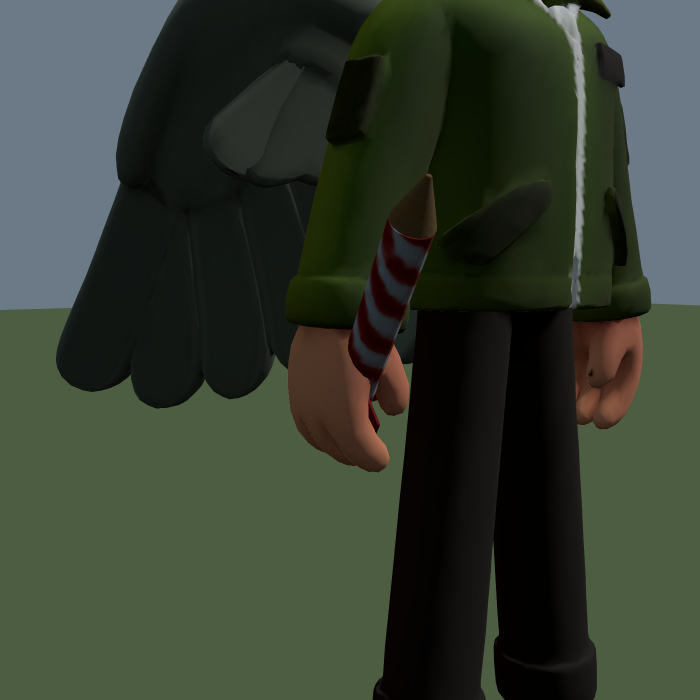
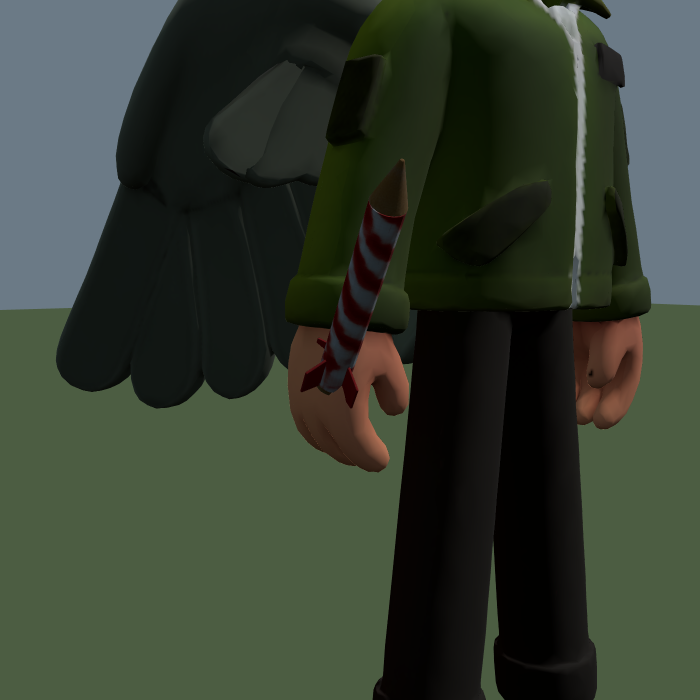
Stop the firework coming out through the palm
This fist is a closed lump of mesh with no hole in it. The built rocket hangs a
little of its tube and a guide stick below the grip, which is right for a hand
modelled open, and in a solid fist it means the tail comes out through the
palm - which is what "it goes through his hand" was.

Two changes: the scanned firework's foot sits at the grip rather than three
centimetres below it, so nothing extends past the fingers; and the grip moves
half a fist's width out, so the tube rests against the outside of the fingers
where a hand that cannot open has to hold something. Filling the hand goes back
to 1.0 - at 1.3 it was thicker than the forearm.

Claude-Session: https://claude.ai/code/session_01AbPj1ecgWZX5NRERgq23EA

Changed region(s): [[0.42, 0.24, 0.63, 0.63]]

diff --git a/src/player/avatar.js b/src/player/avatar.js
@@ -30,7 +30,9 @@ const GRIP_RISE = 0.20;
  * And how much wider than the fist the tube is drawn, so the fingers close
  * round something rather than beside it.
  */
-const GRIP_FILL = 1.3;
+const GRIP_FILL = 1.0;
+/** How far out of the fist it sits, as a share of the fist's width. */
+const GRIP_OUT = 0.3;
 /** White, for lightening the slot colour before it tints a photograph. */
 const WHITE_TINT = new THREE.Color(0xffffff);
 /** Scratch, so measuring the scan's fist allocates nothing. */
@@ -1381,6 +1383,12 @@ export class Avatar {
     const tips = fist[0][0];
     const wrist = fist[fist.length - 1][0];
     grip.y += (wrist - tips) * GRIP_RISE;
+    // And out of the hand, not through it. This fist is a closed lump of mesh
+    // with no hole in it, so anything put at its centre comes out the other
+    // side - the tail poking through the palm. Held against the outside of the
+    // fingers instead, which is where a hand that cannot open has to hold
+    // something.
+    grip.x += this.scanFist * GRIP_OUT;
     // Into the shoulder's frame, where the rocket lives. At rest that joint
     // has no rotation, so this is a subtraction.
     const shoulder = SCAN_JOINTS.find((joint) => joint.name === 'armR').at;
@@ -1994,11 +2002,11 @@ export class Avatar {
       const centre = box.getCenter(new THREE.Vector3());
       const scale = ROCKET_LEN / Math.max(size.y, 1e-6);
       mesh.scale.setScalar(scale);
-      mesh.position.set(
-        -centre.x * scale,
-        -box.min.y * scale - ROCKET_GRIP,
-        -centre.z * scale,
-      );
+      // Its foot sits *at* the grip, not below it. The built rocket hangs a
+      // little of its tube and a guide stick below the fist, which is right
+      // for a hand that is modelled open; this fist is a closed lump with no
+      // hole in it, so anything below the grip comes out through the palm.
+      mesh.position.set(-centre.x * scale, -box.min.y * scale, -centre.z * scale);
       const held = new THREE.Group();
       held.add(mesh);
       this.rocketModel = held;
